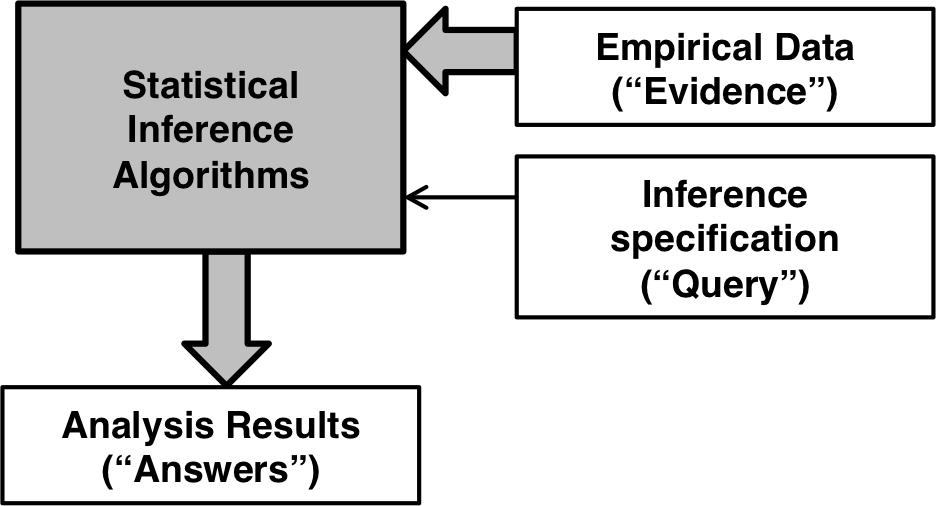
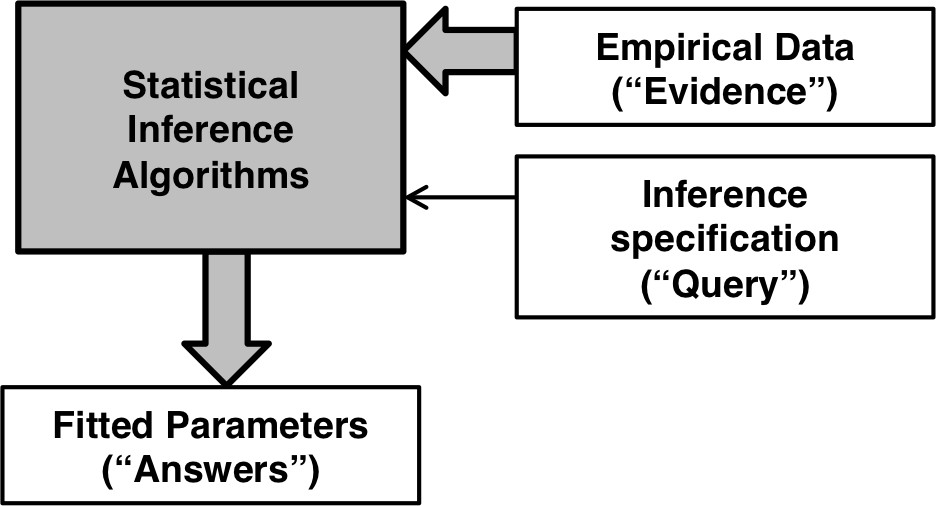
Converted paths and URLs to work with custom subdomain

Changed region(s): [[0.031, 0.8004, 0.4028, 0.8893]]

diff --git a/_includes/head.html b/_includes/head.html
@@ -12,11 +12,11 @@
   <script src="{{ "/assets/js/parse-bibtex.js" | prepend: site.baseurl }}"></script>
   <script src="{{ "/assets/js/main.js" | prepend: site.baseurl }}"></script>
 
-  <script src="https://cdn.webppl.org/webppl-editor-1.0.0.js"></script>
-  <link rel="stylesheet" href="https://cdn.webppl.org/webppl-editor-1.0.0.css">
+  <script src="http://cdn.webppl.org/webppl-editor-1.0.0.js"></script>
+  <link rel="stylesheet" href="http://cdn.webppl.org/webppl-editor-1.0.0.css">
 
-  <script src="https://cdn.webppl.org/webppl-viz-0.7.4.js"></script>
-  <link rel="stylesheet" href="https://cdn.webppl.org/webppl-viz-0.7.4.css">
+  <script src="http://cdn.webppl.org/webppl-viz-0.7.4.js"></script>
+  <link rel="stylesheet" href="http://cdn.webppl.org/webppl-viz-0.7.4.css">
   
   <script src="{{ "/assets/js/webppl.min.js" | prepend: site.baseurl }}" defer async></script>
 

diff --git a/_includes/footer.html b/_includes/footer.html
@@ -1,5 +1,5 @@
 <footer class="site-footer">
-  <a href="/riskmodels/">Table of Contents</a> | <a href="/riskmodels/editor.html">Interactive Editor</a> | <a href="https://github.com/russellcameronthomas/riskmodels" id="github-edit-link">Edit on Github</a>
+  <a href="/riskmodels/">Table of Contents</a> | <a href="/riskmodels/editor.html">Interactive Editor</a> | <a href="https://riskmodels.meritology.com/editor.html" id="github-edit-link">Edit on Github</a>
 </footer>
 
 <script type="text/javascript">

diff --git a/assets/js/main.js b/assets/js/main.js
@@ -142,7 +142,7 @@ function format_refp(citation) {
   return textohtml(s);
 }
 
-$.get("/riskmodels/bibliography.bib", function (bibtext) {
+$.get("/bibliography.bib", function (bibtext) {
     $(function () {
         var bibs = doParse(bibtext);
         $.each(

diff --git a/chapters/1-introduction.md b/chapters/1-introduction.md
@@ -9,36 +9,64 @@ is_section: true
 
 Probabilistic programming combines the ***"Math of Data"*** (statistics) with the ***"Math of Thought"*** (logical structures and programs).
 
-Probabilistic programming is different from other methods (i.e. ML, Bayes Nets, BUGS/STAN) for risk analysis and modeling because it is:
+Probabilistic programming is different from other methods (i.e. ML, Bayes Nets, BUGS/STAN) and better for many types of risk analysis and modeling because it is:
 
 - ***More powerful and generally applicable*** -- able to handle complex problems that are hard or impossible with other methods
 - ***Easier to learn, iterate, extend, maintain*** ... -- you focus on your model of the system rather than computational details of inference
 - ***Still early stages*** -- Transitioning from research to practical applications
 
-For risk analysts, probabilistic programming has *the potential* to help us take on many hairy problems that we either do with highly specialized tools and models, or we do superficially, or we don't do at all.
+For risk analysts, the main of benefit probabilistic programming is that it has *the potential* to help us take on many hairy problems that we either do with great difficulty now, or we don't do at all.
 
 ## Big Picture
 
-Probabilistic programming is a hybrid computing system, combining a Turing-complete programming language with statistical inference algorithms.  Let's build that up in pieces, starting with the "Math of Data": statistics.
+Probabilistic programming is a hybrid computing system, combining a Turing-complete programming language with statistical inference algorithms.  Let's build that up in pieces, starting with the 
 
-<img style="float: right;width:400px;" src="{{ site.baseurl }}/assets/img/statistical_inference_algorithms.png">
-Statistical inference algorithms (e.g. linear models, null-hypothesis tests, etc.) take **empirical data** (a.k.a. 'evidence') as input, and produce probabilistic information (a.k.a. 'answers') as output.
+### "Math of Data": Statistical Inference 
 
+<img style="float: right;width:350px;" src="{{ site.baseurl }}/assets/img/statistical_inference_algorithms.png">
+Statistical inference algorithms (e.g. linear models, null-hypothesis tests, etc.) take **empirical data** (a.k.a. "evidence") as input, a set of specifications (a.k.a. "query") and produce analysis results (a.k.a. "answers") as output.
 
-<!--- ![The Math of Data: Statistical Inference]({{ site.baseurl }}/assets/img/statistical_inference_algorithms.png = 300x) -->
+Buried in every statistical inference algorithm are assumptions that can be interpreted as its **model** of the **data generation process**. It's called "inference" because the algorithm finds the model parameters ("answers") that give the best fit to the empirical data ("evidence"). Examples:
+
+- Linear regression algorithm models data generation as a linear process plus independent Gaussian noise.  
+- K-means clustering algorithm takes a parameter $$K$$, and models the data generation process as $$K$$ centroids spaced reasonably far apart, plus independent Gaussian noise.  
+
+What if the evidence doesn't fit the model of data generation? With statistical inference tools, you need to switch algorithms, or maybe chain them together in some way.  Unless you write your own statistical inference algorithms, you can't programmatically specify the data generation process.
  
+### "Math of Thought": Logic and Programs
+<img style="float: right;width:350px;" src="{{ site.baseurl }}/assets/img/generative_probabilistic_model.png">
+Now we switch our attention from the data to the system that generates the data. Computer programs are the tools we use to simulate the system, taking model parameters and initial conditions as inputs.  If there is no randomness in the programs, then the simulations produce the same outputs each run.  If there is randomness, then each run ("realization") produces a different outputs.  The "Monte Carlo method" involves running a stochstic program many times to generate a large sample of realizations for later statistical analysis.
 
-<img style="float: right;width:250px;" src="{{ site.baseurl }}/assets/img/Classes_of_automata.png">
-Ordinary programming languages (C, Java, PHP, R, Lisp) are 'Turing-complete' because they all the full computational power of a Turing Machine. 
+---
+
+|-----------------:|:---------------------------------------:|
+|*Edsger Dijkstra* : |  "Deterministic"|
+|-----------------:|:---------------------------------------|
+|  Programs =| Algorithms + Data Structures |
+| | |
+|-----------------:|:---------------------------------------:|
+|*Stanislaw Ulam* : | "Monte Carlo method"|
+|-----------------:|:---------------------------------------|
+| Stochastic Programs =| Algorithms + Data Structures + Randomness|
+
+---
+
+
+### 
+
+<img style="float: right;width:250px;" src="{{ site.baseurl }}/assets/img/Classes_of_automata.png">Bayes Networks is a method for explicitly and programmatically defining structure of a 
+
+
+Ordinary programming languages (C, Java, PHP, R, Lisp) are 'Turing-complete' because they all the full computational power of a Turing Machine.
 
 
 
-<!--- ![Classes of Automata]({{ site.baseurl }}/assets/img/Classes_of_automata.png = 100x) -->
 
 
+<!---
 
 
-
+## OLD
 
 
 Imagine a dataset that records how individuals move through a city. The figure below shows what a datapoint from this set might look like. It depicts an individual, who we'll call Bob, moving along a street and then dwelling in the location of a restaurant. This restaurant is one of two nearby branches of a chain of Donut Stores. Two other nearby restaurants are also shown on the map.
@@ -111,3 +139,5 @@ viz.auto(boundedGeometric);
 ~~~~
 
 In the [next chapter](/chapters/2-webppl.html), we will introduce WebPPL in more detail.
+
+-->
